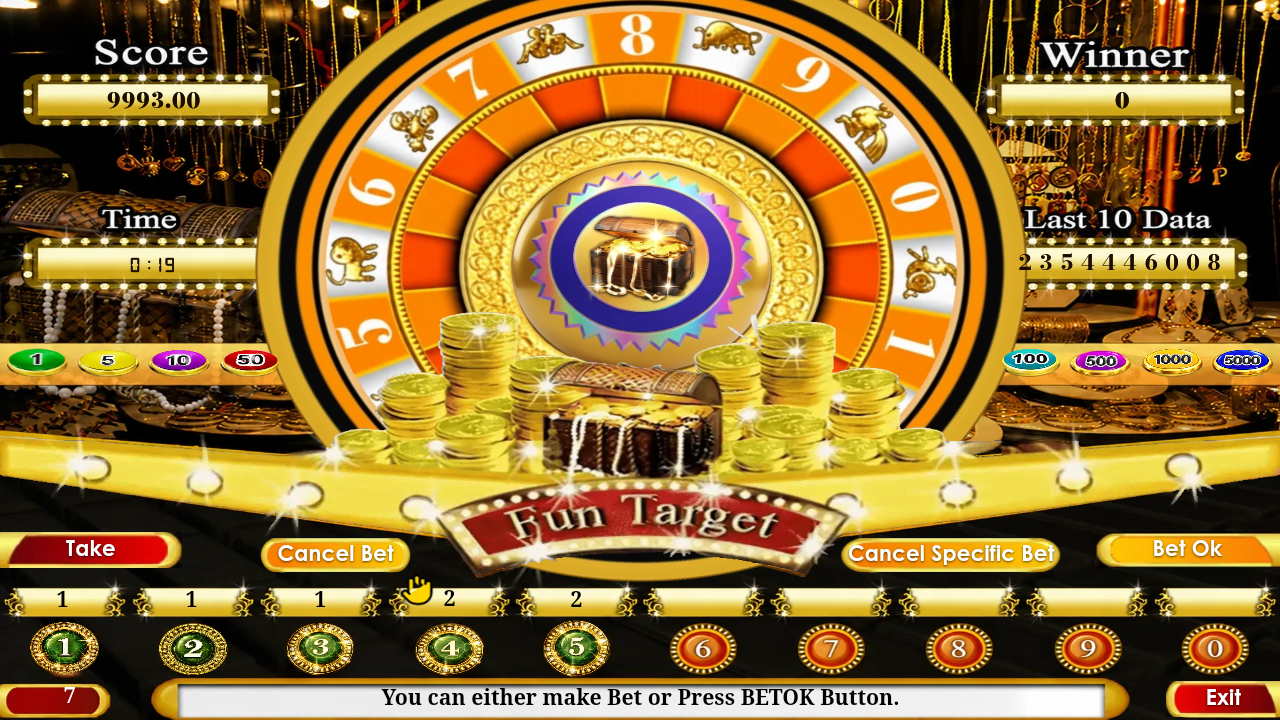
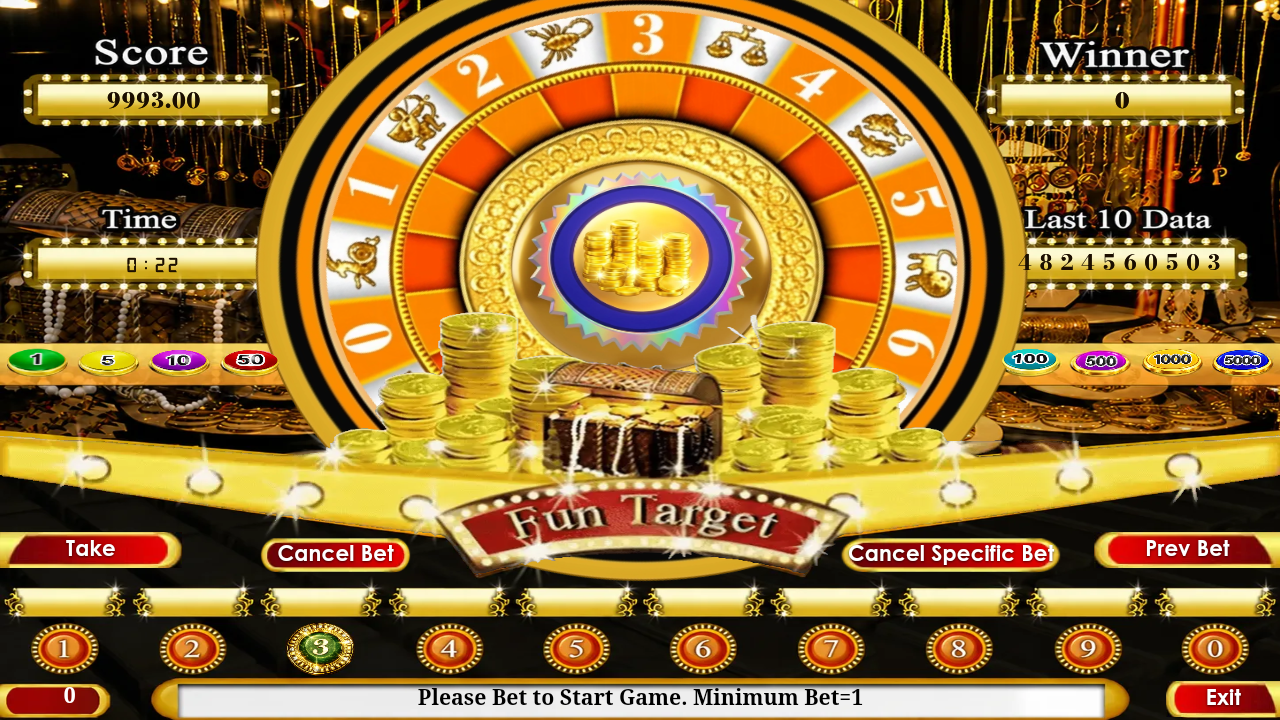
feat: add WheelDisplay component for spinning wheel game logic and UI

diff --git a/frontend/src/features/home/components/WheelDisplay.jsx b/frontend/src/features/home/components/WheelDisplay.jsx
@@ -8,27 +8,79 @@ import bonus from "@assets/images/gifs/joker3.webp";
 import drum from "@assets/images/gifs/joker4.webp";
 import pointerGif from "@assets/images/gifs/DG.webp";
 
-const POS = {
+// ========================================================
+// 💻 1. DESKTOP / LAPTOP / BROWSER CONFIGURATION
+// (Aapke desktop/laptop browser ke liye alag setting)
+// ========================================================
+const DESKTOP_POS = {
   left: "50%",
   top: "37%",
   width: "min(46vw, 66vh)",
   height: "min(46vw, 66vh)",
   aspectRatio: "1 / 1",
+  scaleX: 1.23,
 };
 
-const OVERLAY_POS = {
+const DESKTOP_OVERLAY_POS = {
   left: "50%",
   top: "50%",
   width: "33.3%",
   height: "33.3%",
 };
 
-const POINTER_POS = {
+const DESKTOP_POINTER_POS = {
   left: "50%",
   top: "2.0%",
   width: "11%",
   height: "auto",
 };
+
+// ========================================================
+// 📱 📺 2. ANDROID APP & ANDROID TV CONFIGURATION
+// (Android TV aur Android mobile APK ke liye alag setting)
+// ========================================================
+const ANDROID_POS = {
+  left: "50%",
+  top: "38%",
+  width: "min(43vw, 62vh)",
+  height: "min(43vw, 62vh)",
+  aspectRatio: "1 / 1",
+  scaleX: 1.12,
+};
+
+const ANDROID_OVERLAY_POS = {
+  left: "50%",
+  top: "50%",
+  width: "33.3%",
+  height: "33.3%",
+};
+
+const ANDROID_POINTER_POS = {
+  left: "50%",
+  top: "2.0%",
+  width: "11%",
+  height: "auto",
+};
+
+// Auto-detect platform: Android App/TV vs Desktop Browser
+const isAndroidPlatform = () => {
+  if (typeof window === "undefined") return false;
+  const search = window.location?.search || "";
+  if (search.includes("platform=android")) return true;
+  if (search.includes("platform=desktop")) return false;
+
+  if (window.Capacitor?.isNativePlatform?.() && window.Capacitor?.getPlatform?.() === "android") {
+    return true;
+  }
+  const ua = navigator.userAgent || "";
+  return /Android/i.test(ua) && !/Windows NT|Macintosh|Mac OS X/i.test(ua);
+};
+
+const IS_ANDROID = isAndroidPlatform();
+
+const POS = IS_ANDROID ? ANDROID_POS : DESKTOP_POS;
+const OVERLAY_POS = IS_ANDROID ? ANDROID_OVERLAY_POS : DESKTOP_OVERLAY_POS;
+const POINTER_POS = IS_ANDROID ? ANDROID_POINTER_POS : DESKTOP_POINTER_POS;
 
 const NON_JACKPOT_IMAGES = [goldie, bonus, drum];
 
@@ -342,11 +394,12 @@ const WheelDisplay = ({
 
   return (
     <div
-      className="absolute pointer-events-none select-none ft-responsive-wheel"
+      className={`absolute pointer-events-none select-none ${IS_ANDROID ? "ft-wheel-android" : "ft-wheel-desktop"}`}
       style={{
         left: POS.left,
         top: POS.top,
         width: POS.width,
+        height: POS.height,
         maxWidth: "100%",
         maxHeight: "100%",
         aspectRatio: "1 / 1",
@@ -430,17 +483,23 @@ const WheelDisplay = ({
       </div>
 
       <style>{`
-        /* Rectangular screens (16:9 TVs, widescreen laptops, mobile landscape):
-           scaleX(1.23) stretches the wheel horizontally to match the 16:9 stretched background */
-        .ft-responsive-wheel {
-          transform: translate(-50%, -50%) scaleX(1.23);
-          width: min(46vw, 66vh);
-          height: min(46vw, 66vh);
+        /* Android TV & Android App wheel styling */
+        .ft-wheel-android {
+          transform: translate(-50%, -50%) scaleX(${ANDROID_POS.scaleX});
+          width: ${ANDROID_POS.width};
+          height: ${ANDROID_POS.height};
+        }
+
+        /* Desktop & Laptop browser wheel styling */
+        .ft-wheel-desktop {
+          transform: translate(-50%, -50%) scaleX(${DESKTOP_POS.scaleX});
+          width: ${DESKTOP_POS.width};
+          height: ${DESKTOP_POS.height};
         }
 
         /* Semi-square screens (ratio <= 1.4, like tablets / 14:10 displays) */
         @media (max-aspect-ratio: 14/10) {
-          .ft-responsive-wheel {
+          .ft-wheel-desktop, .ft-wheel-android {
             transform: translate(-50%, -50%) scaleX(1.10);
             width: min(45vw, 65vh) !important;
             height: min(45vw, 65vh) !important;
@@ -449,7 +508,7 @@ const WheelDisplay = ({
 
         /* Square screens (ratio <= 1.2, like 4:3 displays / iPads) */
         @media (max-aspect-ratio: 12/10) {
-          .ft-responsive-wheel {
+          .ft-wheel-desktop, .ft-wheel-android {
             transform: translate(-50%, -50%) scaleX(1.0);
             width: min(48vw, 62vh) !important;
             height: min(48vw, 62vh) !important;
@@ -460,5 +519,5 @@ const WheelDisplay = ({
   );
 };
 
-export { POS as wheelPos };
+export { POS as wheelPos, DESKTOP_POS, ANDROID_POS };
 export default WheelDisplay;
